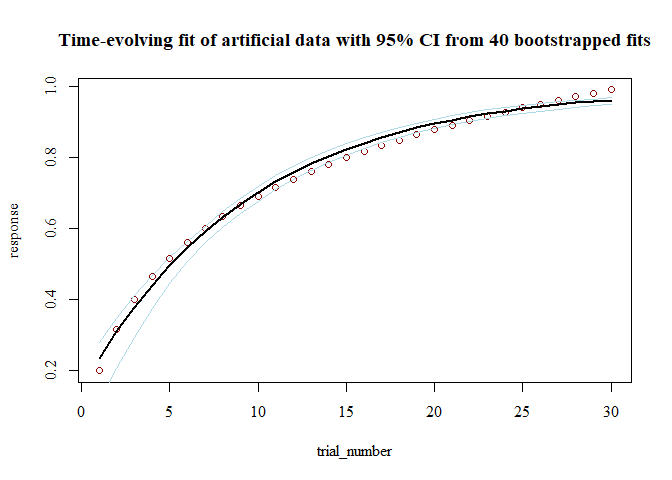
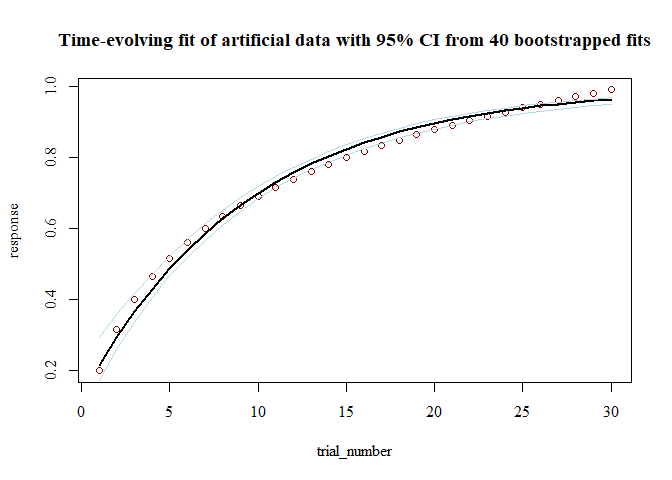
update README

diff --git a/README.md b/README.md
@@ -2,7 +2,7 @@
 TEfits
 ======
 
-[![License: MIT](https://img.shields.io/badge/License-MIT-yellow.svg)](https://opensource.org/licenses/MIT) [![DOI](https://zenodo.org/badge/225967950.svg)](https://zenodo.org/badge/latestdoi/225967950) [![Build Status](https://travis-ci.com/akcochrane/TEfits.svg?branch=master)](https://travis-ci.com/akcochrane/TEfits)
+[![License: MIT](https://img.shields.io/badge/License-MIT-yellow.svg)](https://opensource.org/licenses/MIT) [![DOI](https://zenodo.org/badge/225967950.svg)](https://zenodo.org/badge/latestdoi/225967950) [![status](https://joss.theoj.org/papers/0d67da372696cc9a817255858d8bb8a7/status.svg)](https://joss.theoj.org/papers/0d67da372696cc9a817255858d8bb8a7) [![Build Status](https://travis-ci.com/akcochrane/TEfits.svg?branch=master)](https://travis-ci.com/akcochrane/TEfits)
 
 Overview to Time-Evolving fits
 ------------------------------
@@ -95,19 +95,19 @@ summary(mod_boot)
     ## 
     ## >> Fit Values:
     ##        Estimate  Q025  Q975 pseudoSE
-    ## pAsym     0.998 0.987 1.000    0.003
-    ## pRate     2.715 2.531 2.827    0.076
-    ## pStart    0.233 0.112 0.279    0.043
+    ## pAsym     1.000 0.987 1.000    0.003
+    ## pRate     2.692 2.609 2.824    0.055
+    ## pStart    0.214 0.173 0.293    0.031
     ## 
     ## >> Goodness-of-fit:
     ##                err  nullErr nPars nObs      BIC  nullBIC    deltaBIC
-    ## bernoulli 13.42559 16.83409     3   30 37.05477 37.06937 -0.01460234
+    ## bernoulli 13.42645 16.83409     3   30 37.05649 37.06937 -0.01287798
     ## 
     ## >> Test of change in nonindependence:
     ##                          rawSpearman modelConditionalSpearman
-    ## response ~ trial_number:          -1               -0.1065628
+    ## response ~ trial_number:          -1                0.1261402
     ##                          proportionalSpearmanChange pValSpearmanChange
-    ## response ~ trial_number:                  0.1065628                  0
+    ## response ~ trial_number:                  0.1261402                  0
     ##                          pval_KPSS_null pval_KPSS_model
     ## response ~ trial_number:          < .01            > .1
     ## 
@@ -116,11 +116,11 @@ summary(mod_boot)
     ## >> Timepoint at which resampled estimates diverge from timepoint 1, with Cohen's d>1: 2 
     ## 
     ## >> Bootstrapped parameter correlations:
-    ##         pAsym pStart pRate    err
-    ## pAsym   1.000 -0.211 0.169 -0.230
-    ## pStart -0.211  1.000 0.690  0.471
-    ## pRate   0.169  0.690 1.000  0.110
-    ## err    -0.230  0.471 0.110  1.000
+    ##         pAsym pStart  pRate   err
+    ## pAsym   1.000 -0.208 -0.110 0.091
+    ## pStart -0.208  1.000  0.640 0.545
+    ## pRate  -0.110  0.640  1.000 0.031
+    ## err     0.091  0.545  0.031 1.000
 
 Fitting multiple models
 -----------------------
@@ -159,8 +159,8 @@ summary(mod_4group)
     ## 
     ## >> Overall effects:
     ##             pAsym     pStart      pRate
-    ## mean   0.14922724 0.01639031 3.83366584
-    ## stdErr 0.03933406 0.01060452 0.02431516
+    ## mean   0.14922728 0.01639031 3.83366637
+    ## stdErr 0.03933409 0.01060452 0.02431463
     ## 
     ##                 err    nullErr nPars nObs      Fval         Pval   Rsquared
     ## mean   3.005041e-04 0.03071614     3   30 1692.5939 1.110223e-16 0.97598962
@@ -202,7 +202,7 @@ TElm parameter estimates:
 
 |  X.Intercept.|  trial\_number|   rate|
 |-------------:|--------------:|------:|
-|         3.522|         -2.653|  2.867|
+|         3.539|          -2.66|  2.895|
 
 TEfit parameter estimates:
 
